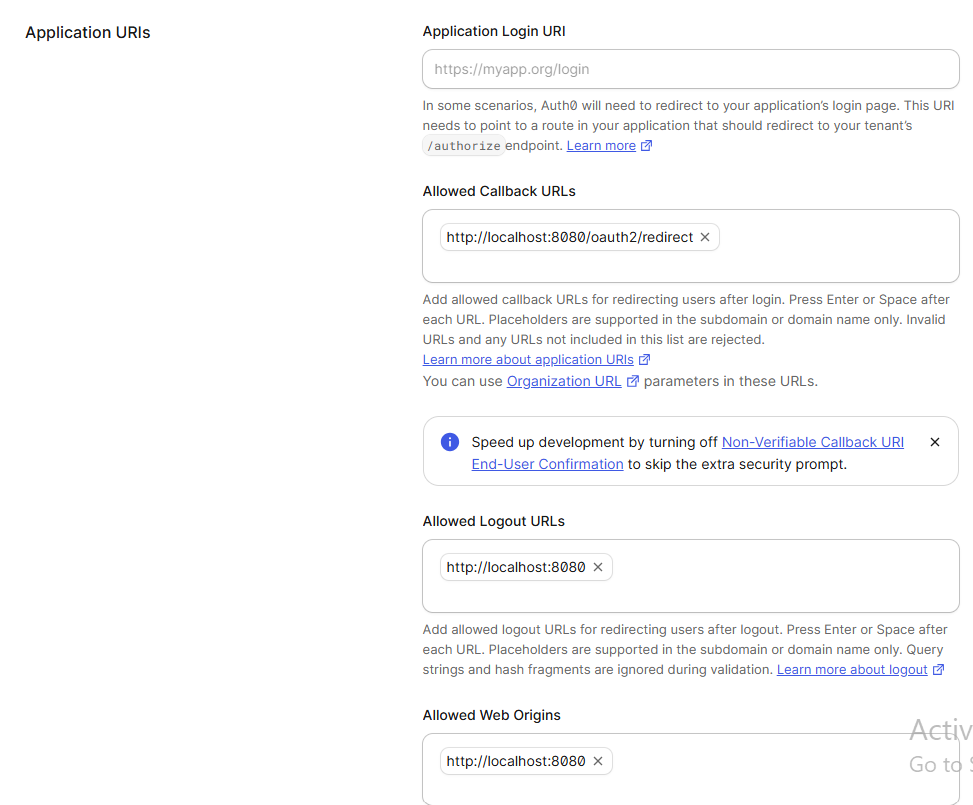
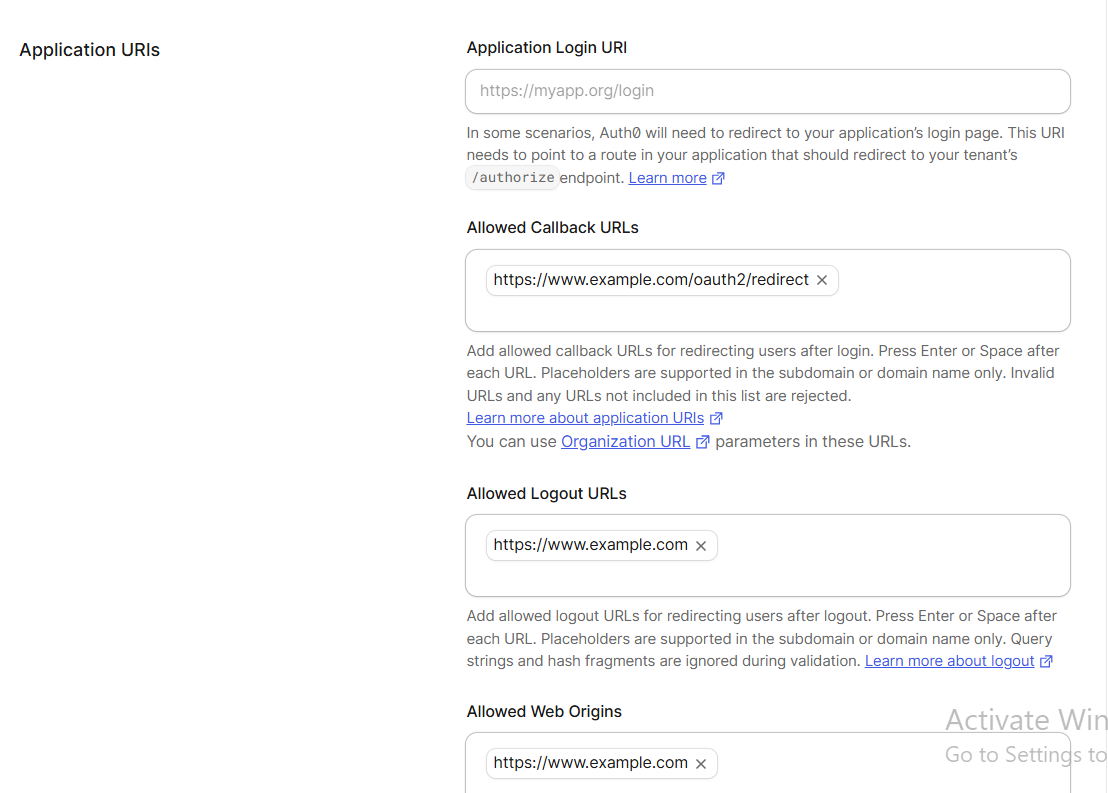
docs(auth0): fix HTTPS, audience, remove self-signed wording, update screenshots, copy to versions

diff --git a/assets/kgw-docs/pages/security/auth0/setup.md b/assets/kgw-docs/pages/security/auth0/setup.md
@@ -1,4 +1,3 @@
-
 Set up an Auth0 account, register kgateway as an OAuth2 client, and give the gateway a network path to reach Auth0. Every Auth0 guide in this section starts here.
 
 When you finish, you choose an authentication flow:
@@ -15,9 +14,9 @@ When you finish, you choose an authentication flow:
    | Setting | Value |
    |---|---|
    | **Application Type** | Regular Web Application |
-   | **Allowed Callback URLs** | `http://localhost:8080/oauth2/redirect` |
-   | **Allowed Logout URLs** | `http://localhost:8080` |
-   | **Allowed Web Origins** | `http://localhost:8080` |
+   | **Allowed Callback URLs** | `https://www.example.com/oauth2/redirect` |
+   | **Allowed Logout URLs** | `https://www.example.com` |
+   | **Allowed Web Origins** | `https://www.example.com` |
    | **JWT Signature Algorithm** | RS256 |
    | **OIDC Conformant** | Enabled |
 
@@ -25,7 +24,7 @@ When you finish, you choose an authentication flow:
 
 2. A test user created in your Auth0 database connection.
 
-The authorization code flow requires an **HTTPS listener** on your gateway **for production**. For local testing, HTTP is sufficient. To add an HTTPS listener, see [HTTPS listener]({{< link-hextra path="/setup/listeners/https/" >}}). The access token validation flow works over HTTP, because it does not use cookies.
+The authorization code flow requires an **HTTPS listener** on your gateway. Kgateway sets the OAuth2 nonce and code verifier cookies with the `Secure` attribute, so browsers do not return them over plain HTTP and the callback fails CSRF validation. To add one, see [HTTPS listener]({{< link-hextra path="/setup/listeners/https/" >}}). The access token validation flow works over HTTP, because it does not use cookies.
 
 ## Configure Auth0
 
@@ -34,9 +33,6 @@ Create an Auth0 application, configure the required settings, and add a test use
 ### Access the Auth0 Dashboard
 
 1. Go to [Auth0 Dashboard](https://manage.auth0.com/).
-
-{{< reuse-image src="img/auth0/auth0-dashboard.png" >}}
-
 2. Navigate to **Applications** → **Applications**.
 3. Click on your Regular Web Application.
 
@@ -46,9 +42,9 @@ Create an Auth0 application, configure the required settings, and add a test use
 
 In the **Settings** tab, configure the following:
 
-- **Allowed Callback URLs**: Add `http://localhost:8080/oauth2/redirect`
-- **Allowed Logout URLs**: Add `http://localhost:8080`
-- **Allowed Web Origins**: Add `http://localhost:8080`
+- **Allowed Callback URLs**: Add `https://www.example.com/oauth2/redirect`
+- **Allowed Logout URLs**: Add `https://www.example.com`
+- **Allowed Web Origins**: Add `https://www.example.com`
 
 {{< reuse-image src="img/auth0/redirect-uri.png" >}}
 
@@ -73,8 +69,6 @@ In the **Settings** tab, configure the following:
 
 3. In **Advanced Settings** → **OAuth**, set the **Default Directory** to `Username-Password-Authentication` (this ensures the password grant uses the correct connection).
 
-{{< reuse-image src="img/auth0/default-directory.png" >}}
-
 4. Click **Save Changes**.
 
 ### Create an Auth0 API (for Access Token Validation)
@@ -86,7 +80,6 @@ In the **Settings** tab, configure the following:
 5. Use the **Identifier** as the `YOUR_API_AUDIENCE` in the Access Token Validation guide.
 
 {{< reuse-image src="img/auth0/create-api.png" >}}
-
 
 > [!NOTE]
 > If you already have an Auth0 API, you can use its Identifier instead of creating a new one. The Identifier is the audience you'll use in the JWT GatewayExtension.
@@ -140,7 +133,6 @@ Replace `YOUR_AUTH0_DOMAIN` with your Auth0 domain (such as, `dev-xxx.us.auth0.c
 > [!NOTE]
 > This address is separate from the public Auth0 URL that you configure on the `GatewayExtension` in the next steps. The `Backend` is the network path that the gateway uses for token exchange and OIDC discovery, and it does not have to be reachable from the browser.
 
-
 ## Configure TLS for the Auth0 Backend {#configure-tls}
 
 Since Auth0 uses a public, trusted certificate, you can use the system's trusted CA certificates. Create a `BackendConfigPolicy` to configure TLS.
@@ -163,8 +155,7 @@ spec:
 EOF
 ```
 
-Replace `YOUR_AUTH0_DOMAIN` with your Auth0 domain (such as, `dev-xxx.us.auth0.com`). The `wellKnownCACertificates: System` setting tells Envoy to use the system's trusted CA certificates, which include the Certificate Authorities that signed
-Auth0's certificate.
+Replace `YOUR_AUTH0_DOMAIN` with your Auth0 domain (such as, `dev-xxx.us.auth0.com`). The `wellKnownCACertificates: System` setting tells Envoy to use the system's trusted CA certificates, which include the Certificate Authorities that signed Auth0's certificate.
 
 ## Next steps
 

diff --git a/assets/kgw-docs/pages/security/auth0/authorization-code.md b/assets/kgw-docs/pages/security/auth0/authorization-code.md
@@ -5,7 +5,8 @@ Protect a route with the OAuth2 authorization code flow. Unauthenticated browser
 
 1. Complete the [Auth0 setup]({{< link-hextra path="/security/oauth/auth0/setup/" >}}) page. This flow needs the Auth0 application, the test user, the `Backend`, and the `BackendConfigPolicy` that it creates.
 
-2. The authorization code flow requires an **HTTPS listener** on your gateway **for production**. For local testing, HTTP is sufficient. To add an HTTPS listener, see [HTTPS listener]({{< link-hextra path="/setup/listeners/https/" >}}). The access token validation flow works over HTTP, because it does not use cookies.
+2. Make sure your gateway has an **HTTPS listener**. Kgateway sets the OAuth2 nonce and code verifier cookies with the `Secure` attribute, so browsers do not return them over plain HTTP and the callback fails CSRF validation. To add one, see [HTTPS listener]({{< link-hextra path="/setup/listeners/https/" >}}). The access token validation flow works over HTTP, because it does not use cookies.
+
 
 ## Configure the authorization code flow
 
@@ -22,7 +23,7 @@ Create the Kubernetes Secret that holds the Auth0 client secret, a `GatewayExten
 2. Create a GatewayExtension that holds everything the gateway needs to talk to Auth0. The GatewayExtension is independent of routing, so you can reuse the same extension across multiple {{< reuse "kgw-docs/snippets/trafficpolicy.md" >}} resources.
 
 > [!NOTE]
-> Auth0's `iss` claim is derived from your Auth0 domain. Use the same domain consistently across `issuerURI` and the endpoint fields. For local testing, use `http://localhost:8080/oauth2/redirect` as the `redirectURI`. The gateway still reaches Auth0 through `backendRef`, so the two do not have to be the same address.
+> Auth0's `iss` claim is derived from your Auth0 domain. Use the same domain consistently across `issuerURI` and the endpoint fields. The `redirectURI` must match the exact value you register in Auth0's **Allowed Callback URLs**. The gateway still reaches Auth0 through `backendRef`, so the two do not have to be the same address.
 
 ```yaml
 kubectl apply -f- <<EOF
@@ -42,7 +43,7 @@ spec:
     authorizationEndpoint: https://YOUR_AUTH0_DOMAIN/authorize
     tokenEndpoint: https://YOUR_AUTH0_DOMAIN/oauth/token
     endSessionEndpoint: https://YOUR_AUTH0_DOMAIN/v2/logout
-    redirectURI: http://localhost:8080/oauth2/redirect
+    redirectURI: https://www.example.com/oauth2/redirect
     scopes:
       - openid
       - email
@@ -143,12 +144,12 @@ Use the verification steps below to confirm that the Authorization Code flow wor
 {{< tabs >}}
 {{% tab name="Cloud Provider LoadBalancer" %}}
 ```sh
-curl -vik "http://${INGRESS_GW_ADDRESS}:8080/headers" -H "host: www.example.com"
+curl -vik "https://${INGRESS_GW_ADDRESS}:8443/headers" -H "host: www.example.com"
 ```
 {{% /tab %}}
 {{% tab name="Port-forward for local testing" %}}
 ```sh
-curl -vik "http://localhost:8080/headers" -H "host: www.example.com"
+curl -vik "https://localhost:8443/headers" -H "host: www.example.com"
 ```
 
 {{% /tab %}}
@@ -158,7 +159,7 @@ Example output. Note that the `redirect_uri` parameter matches the value that yo
 
 ```text
 < HTTP/2 302
-< location: https://YOUR_AUTH0_DOMAIN/authorize?client_id=YOUR_CLIENT_ID&...&redirect_uri=http%3A%2F%2Flocalhost%3A8080%2Foauth2%2Fredirect
+< location: https://YOUR_AUTH0_DOMAIN/authorize?client_id=YOUR_CLIENT_ID&...&redirect_uri=https%3A%2F%2Fwww.example.com%2Foauth2%2Fredirect
 < set-cookie: OauthNonce-...;path=/;Max-Age=600;secure;HttpOnly
 ```
 
@@ -177,7 +178,7 @@ If Auth0 shows `Invalid parameter: redirect_uri`, the `redirectURI` on the `Gate
 {{< tabs >}}
 {{% tab name="Cloud Provider LoadBalancer" %}}
 ```sh
-curl -vik "http://${INGRESS_GW_ADDRESS}:8080/headers" \
+curl -vik "https://${INGRESS_GW_ADDRESS}:8443/headers" \
   -H "host: www.example.com" \
   -H "Accept: application/json"
 ```
@@ -185,7 +186,7 @@ curl -vik "http://${INGRESS_GW_ADDRESS}:8080/headers" \
 {{% /tab %}}
 {{% tab name="Port-forward for local testing" %}}
 ```sh
-curl -vik "http://localhost:8080/headers" \
+curl -vik "https://localhost:8443/headers" \
   -H "host: www.example.com" \
   -H "Accept: application/json"
 ```
@@ -329,7 +330,7 @@ spec:
     authorizationEndpoint: https://YOUR_AUTH0_DOMAIN/authorize
     tokenEndpoint: https://YOUR_AUTH0_DOMAIN/oauth/token
     endSessionEndpoint: https://YOUR_AUTH0_DOMAIN/v2/logout
-    redirectURI: http://localhost:8080/oauth2/redirect
+    redirectURI: https://www.example.com/oauth2/redirect
     scopes:
       - openid
       - email

diff --git a/assets/kgw-docs/pages/security/auth0/access-token.md b/assets/kgw-docs/pages/security/auth0/access-token.md
@@ -124,12 +124,12 @@ Example output:
 < HTTP/1.1 401 Unauthorized
 ```
 
-3. Obtain a token from Auth0 with the `password` grant. Use the `-k` option to accept the self-signed certificate for local testing.
+3. Obtain a token from Auth0 with the `password` grant.
 
 Request the token from the same Auth0 address that you set as the `issuer` on the `GatewayExtension`.
 
 ```bash
-export TOKEN=$(curl -sk -X POST "https://YOUR_AUTH0_DOMAIN/oauth/token" \
+export TOKEN=$(curl -s -X POST "https://YOUR_AUTH0_DOMAIN/oauth/token" \
   -d "client_id=YOUR_CLIENT_ID" \
   -d "client_secret=YOUR_CLIENT_SECRET" \
   -d "username=testuser@example.com" \
@@ -157,7 +157,7 @@ Example output. If `aud` does not include your expected audience, update the `au
 ```json
 {
   "iss": "https://YOUR_AUTH0_DOMAIN/",
-  "aud": ["https://YOUR_AUTH0_DOMAIN/api/v2/"]
+  "aud": ["https://my-api.example.com"]
 }
 ```
 

diff --git a/content/docs/envoy/2.2.x/security/oauth/auth0/_index.md b/content/docs/envoy/2.2.x/security/oauth/auth0/_index.md
@@ -1,0 +1,16 @@
+---
+title: Auth0
+weight: 11
+description: Set up OAuth2/OIDC authentication with Auth0 to protect routes through kgateway's built-in authorization code flow.
+---
+
+Protect an HTTPRoute with Auth0 as an OIDC provider. Kgateway handles the OAuth2 authorization code flow: unauthenticated browser requests get redirected to Auth0, the code is exchanged for tokens, and those tokens are stored in session cookies. Your upstream service doesn't need to know any of this happened.
+
+You need three resources: a `Backend` pointing at your Auth0 host, a `GatewayExtension` to configure the OAuth2 provider, and a `TrafficPolicy` to attach it to a route.
+
+## Before you begin
+
+{{< reuse "kgw-docs/snippets/prereq.md" >}}
+
+1. An Auth0 account with a configured Regular Web Application.
+2. A test user created in your Auth0 database connection.

diff --git a/content/docs/envoy/main/security/oauth/auth0/_index.md b/content/docs/envoy/main/security/oauth/auth0/_index.md
@@ -1,0 +1,16 @@
+---
+title: Auth0
+weight: 11
+description: Set up OAuth2/OIDC authentication with Auth0 to protect routes through kgateway's built-in authorization code flow.
+---
+
+Protect an HTTPRoute with Auth0 as an OIDC provider. Kgateway handles the OAuth2 authorization code flow: unauthenticated browser requests get redirected to Auth0, the code is exchanged for tokens, and those tokens are stored in session cookies. Your upstream service doesn't need to know any of this happened.
+
+You need three resources: a `Backend` pointing at your Auth0 host, a `GatewayExtension` to configure the OAuth2 provider, and a `TrafficPolicy` to attach it to a route.
+
+## Before you begin
+
+{{< reuse "kgw-docs/snippets/prereq.md" >}}
+
+1. An Auth0 account with a configured Regular Web Application.
+2. A test user created in your Auth0 database connection.

diff --git a/content/docs/envoy/2.2.x/security/oauth/auth0/authorization-code.md b/content/docs/envoy/2.2.x/security/oauth/auth0/authorization-code.md
@@ -1,0 +1,6 @@
+---
+title: Authorization code flow
+weight: 11
+description: Protect browser traffic by redirecting users to Auth0 to log in, and store their tokens in session cookies.
+---
+{{< reuse "kgw-docs/pages/security/auth0/authorization-code.md" >}}

diff --git a/content/docs/envoy/main/security/oauth/auth0/authorization-code.md b/content/docs/envoy/main/security/oauth/auth0/authorization-code.md
@@ -1,0 +1,6 @@
+---
+title: Authorization code flow
+weight: 11
+description: Protect browser traffic by redirecting users to Auth0 to log in, and store their tokens in session cookies.
+---
+{{< reuse "kgw-docs/pages/security/auth0/authorization-code.md" >}}

diff --git a/content/docs/envoy/2.2.x/security/oauth/auth0/access-token.md b/content/docs/envoy/2.2.x/security/oauth/auth0/access-token.md
@@ -1,0 +1,6 @@
+---
+title: Access token validation
+weight: 12
+description: Validate tokens that API clients already hold by checking the token signature against Auth0's signing keys.
+---
+{{< reuse "kgw-docs/pages/security/auth0/access-token.md" >}}

diff --git a/content/docs/envoy/main/security/oauth/auth0/access-token.md b/content/docs/envoy/main/security/oauth/auth0/access-token.md
@@ -1,0 +1,6 @@
+---
+title: Access token validation
+weight: 12
+description: Validate tokens that API clients already hold by checking the token signature against Auth0's signing keys.
+---
+{{< reuse "kgw-docs/pages/security/auth0/access-token.md" >}}

diff --git a/content/docs/envoy/2.2.x/security/oauth/auth0/setup.md b/content/docs/envoy/2.2.x/security/oauth/auth0/setup.md
@@ -1,0 +1,6 @@
+---
+title: Auth0 setup
+weight: 10
+description: Configure Auth0, create a test user, and configure the kgateway Backend and TLS.
+---
+{{< reuse "kgw-docs/pages/security/auth0/setup.md" >}}

diff --git a/content/docs/envoy/main/security/oauth/auth0/setup.md b/content/docs/envoy/main/security/oauth/auth0/setup.md
@@ -1,0 +1,6 @@
+---
+title: Auth0 setup
+weight: 10
+description: Configure Auth0, create a test user, and configure the kgateway Backend and TLS.
+---
+{{< reuse "kgw-docs/pages/security/auth0/setup.md" >}}
